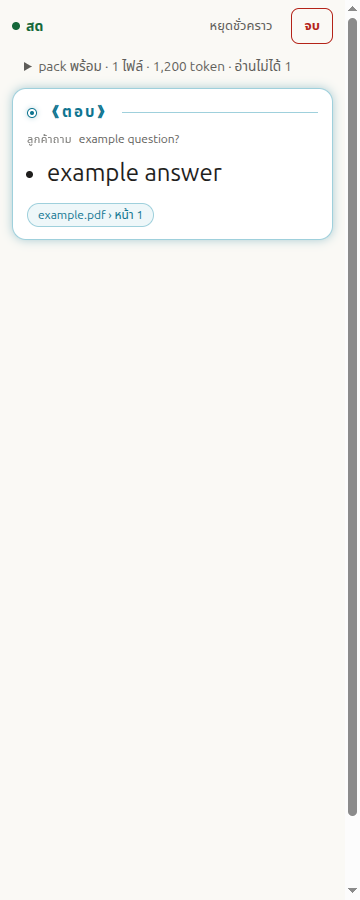
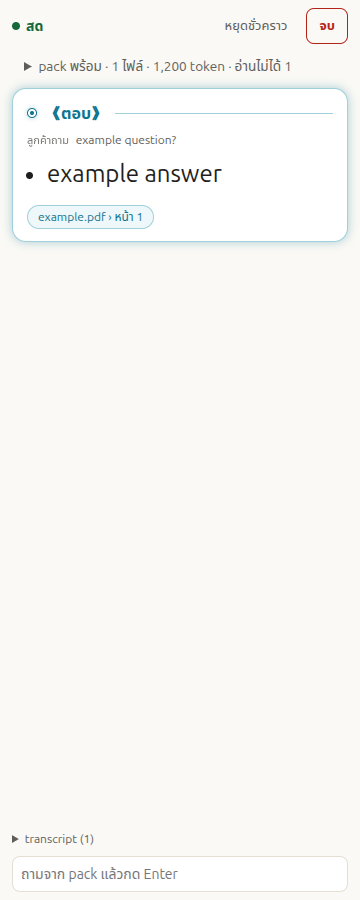
FE-50: modest cue slot min-height, no letter-spacing on Thai

diff --git a/apps/extension/entrypoints/sidepanel/style.css b/apps/extension/entrypoints/sidepanel/style.css
@@ -314,7 +314,7 @@ input[type="checkbox"] {
 .latestwrap {
   display: block;
   flex: none;
-  min-height: calc(var(--cue) + 140px);
+  min-height: 230px; /* ~1 typical cue; the card top never moves, history may shift below */
 }
 .latest {
   box-shadow: 0 0 10px 0 var(--glow);
@@ -325,9 +325,8 @@ input[type="checkbox"] {
   gap: 8px;
   flex: none;
   margin: 0 0 6px;
-  font-size: 15px;
+  font-size: 16px;
   font-weight: 600;
-  letter-spacing: 0.14em;
   color: var(--accent);
 }
 .announce-head.nf .label {
@@ -360,7 +359,6 @@ input[type="checkbox"] {
 .qlabel {
   margin-right: 4px;
   font-size: 11px;
-  letter-spacing: 0.04em;
   opacity: 0.85;
 }
 .prev .question {
